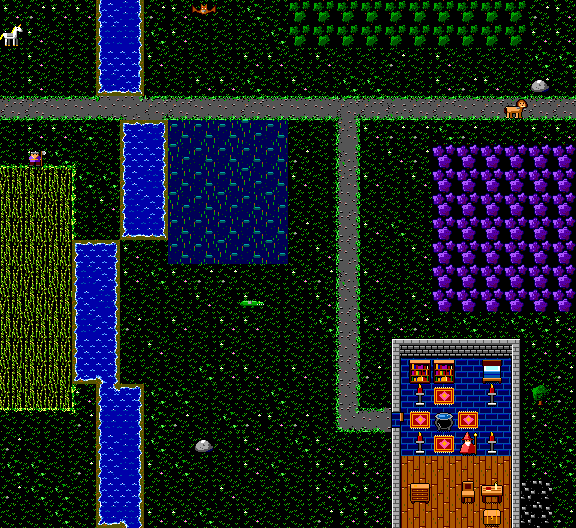
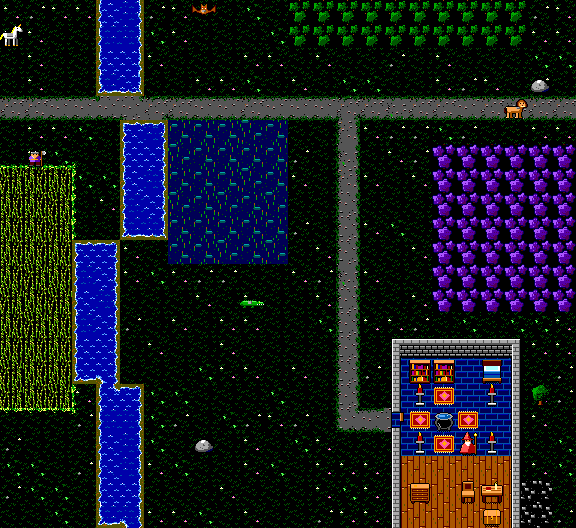
Night grass: dim tufts, calmer ground (D54)

diff --git a/tools/art/night.py b/tools/art/night.py
@@ -19,9 +19,10 @@ from PIL import Image
 
 BLACK = (0, 0, 0)
 RULES: list[tuple[str, dict[tuple[int, int, int], tuple[int, int, int]]]] = [
-    # grass: black ground, bright tufts stay
-    ("floor_grass", {(0, 85, 0): BLACK}),
-    ("edge_path_", {(0, 85, 0): BLACK}),
+    # grass: black ground, dim tufts
+    # tufts are dim: the bright greens would make the ground restless
+    ("floor_grass", {(0, 85, 0): BLACK, (0, 170, 0): (0, 85, 0), (85, 170, 0): (0, 85, 0)}),
+    ("edge_path_", {(0, 85, 0): BLACK, (0, 170, 0): (0, 85, 0), (85, 255, 85): (0, 85, 0)}),
     # trees and forest floor: one step darker, highlights become mid green
     ("tree", {(0, 85, 0): BLACK, (0, 170, 0): (0, 85, 0), (85, 255, 85): (0, 170, 0)}),
     ("floor_forest", {(0, 85, 0): BLACK, (0, 170, 0): (0, 85, 0), (85, 255, 85): (0, 170, 0)}),
